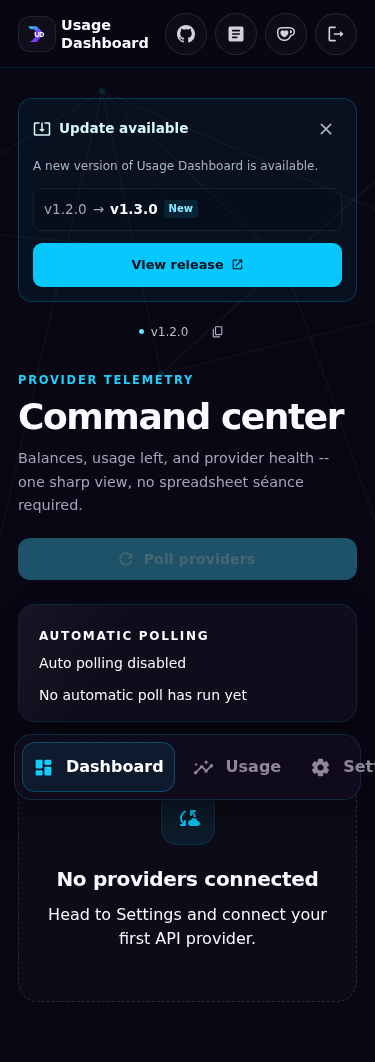
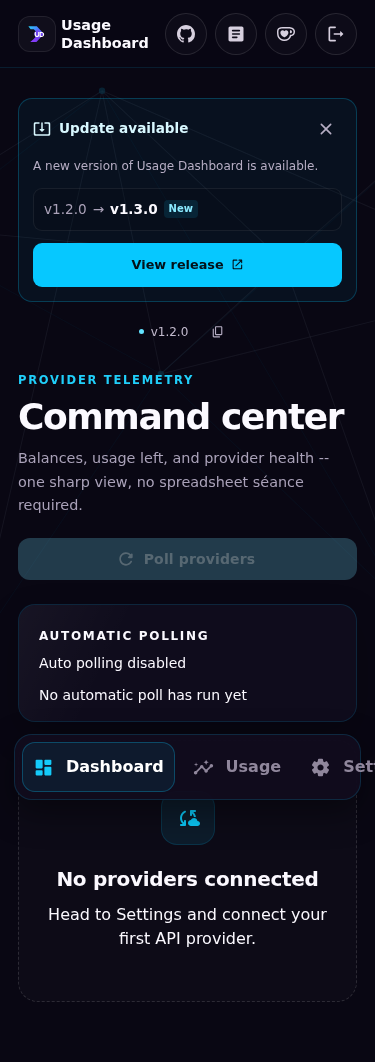
test: strengthen sidebar navigation and accessibility regression coverage
Separate comparison label styling from clipboard announcements and link the container badge to both published images. Refresh final UI captures.

Changed region(s): [[0.0293, 0.4972, 0.968, 0.5593]]

diff --git a/frontend/src/lib/navigation.test.js b/frontend/src/lib/navigation.test.js
@@ -1,9 +1,9 @@
-import { readFileSync } from 'node:fs'
-import { describe, expect, it } from 'vitest'
+// @vitest-environment jsdom
+import { act, createElement } from 'react'
+import { createRoot } from 'react-dom/client'
+import { afterEach, beforeEach, describe, expect, it, vi } from 'vitest'
+import App from '../App.jsx'
 import { usageSubmenuItems, visibleUsageSubmenuItems } from './navigation.js'
-
-const appSource = readFileSync(new URL('../App.jsx', import.meta.url), 'utf8')
-const styles = readFileSync(new URL('../styles.css', import.meta.url), 'utf8')
 
 describe('usage submenu', () => {
   it('shows only always-present sections on the all-providers view', () => {
@@ -24,27 +24,89 @@ describe('usage submenu', () => {
   })
 })
 
-describe('primary sidebar presentation and routes', () => {
-  it('shows the full product name and retains primary and settings navigation', () => {
-    expect(appSource).toContain('<strong>Usage Dashboard</strong>')
-    expect(appSource).toContain('<span>Command Center</span>')
-    expect(appSource).toContain('{ to: "/", label: "Dashboard"')
-    expect(appSource).toContain('{ to: "/usage", label: "Usage"')
-    expect(appSource).toContain('{ to: "/settings", label: "Settings"')
-    expect(appSource).toContain('showSettingsSubmenu &&')
-    expect(appSource).toContain('settingsSubmenuItems.map((subitem) => (')
-    expect(appSource).toContain('href={subitem.href}')
+describe('rendered primary navigation', () => {
+  let root, container
+  const sidebar = () => container.querySelector('.sidebar nav')
+  const submenuLinks = () => [...sidebar().querySelectorAll('.nav-submenu a')]
+  const labels = () => submenuLinks().map((link) => link.textContent)
+
+  beforeEach(() => {
+    globalThis.IS_REACT_ACT_ENVIRONMENT = true
+    localStorage.clear()
+    localStorage.setItem('usage_dashboard_admin_session_token', 'navigation-test-session')
+    // Stub only the HTTP boundary; render the real shell, router and pages.
+    const provider = { config_id: 1, provider: 'codex', label: 'Navigation fixture' }
+    vi.stubGlobal('fetch', vi.fn(async (url) => {
+      const path = new URL(url, window.location.origin).pathname
+      const payload = path.endsWith('/auth/status') ? { setup_required: false }
+        : path.endsWith('/usage') ? [{ config: { id: 1, provider: 'codex' } }]
+        : path.endsWith('/analytics/overview') ? { providers: [provider] }
+        : path.includes('/analytics/') ? {} : []
+      return new Response(JSON.stringify(payload), { headers: { 'Content-Type': 'application/json' } })
+    }))
+    container = document.createElement('div')
+    document.body.append(container)
+    root = createRoot(container)
   })
 
-  it('keeps a scrollable desktop sidebar with focus-visible navigation states', () => {
-    expect(styles).toMatch(/\.sidebar\s*\{[^}]*overflow-y:\s*auto/s)
-    expect(styles).toMatch(/\.side-navigation\s*\{[^}]*flex-direction:\s*column/s)
-    expect(styles).toMatch(/\.sidebar-lower-section\s*\{[^}]*margin-top:\s*auto/s)
-    expect(styles).toContain('.nav-link:focus-visible')
-    expect(styles).toContain('.nav-submenu-link:focus-visible')
-    expect(styles).toMatch(/@media \(prefers-reduced-motion:\s*reduce\)/)
-    const tabletRules = styles.match(/@media \(max-width:\s*900px\)\s*\{([\s\S]*?)\n\}/)
-    expect(tabletRules?.[1]).toContain('.sidebar {')
-    expect(tabletRules?.[1]).toContain('display: none')
+  afterEach(async () => {
+    await act(async () => root.unmount())
+    container.remove()
+    localStorage.clear()
+    window.history.replaceState({}, '', '/')
+    vi.unstubAllGlobals()
+  })
+
+  async function render(path) {
+    window.history.replaceState({}, '', path)
+    await act(async () => root.render(createElement(App)))
+  }
+
+  async function click(link) {
+    await act(async () => {
+      link.click()
+      await new Promise((resolve) => setTimeout(resolve, 0))
+    })
+  }
+
+  it.each(['/usage', '/usage?provider=all', '/usage?provider=1'])(
+    'renders the appropriate Usage anchors at %s', async (path) => {
+      await render(path)
+      const expected = visibleUsageSubmenuItems(path.endsWith('=1'))
+      expect(labels()).toEqual(expected.map((item) => item.label))
+      expect(submenuLinks().map((link) => link.getAttribute('href'))).toEqual(expected.map((item) => item.href))
+      expect(sidebar().querySelector('a[aria-current="page"]').textContent).toBe('Usage')
+      const overview = submenuLinks().find((link) => link.textContent === 'Overview')
+      overview.focus()
+      expect(document.activeElement).toBe(overview)
+      await click(overview)
+      expect(window.location.hash).toBe('#usage-overview')
+      expect(sidebar().querySelector('.nav-submenu-link.active').textContent).toBe('Overview')
+    },
+  )
+
+  it('navigates between primary routes and retains Settings section anchors', async () => {
+    await render('/usage')
+    expect(sidebar().querySelector('.brand-lockup').textContent).toBe('Usage DashboardCommand Center')
+    const primary = [...sidebar().querySelectorAll('.nav-link')]
+    expect(primary.map((link) => [link.textContent, link.getAttribute('href')])).toEqual([
+      ['Dashboard', '/'], ['Usage', '/usage'], ['Settings', '/settings'],
+    ])
+    await click(primary.find((link) => link.textContent === 'Settings'))
+    expect(window.location.pathname).toBe('/settings')
+    expect(sidebar().querySelector('a[aria-current="page"]').textContent).toBe('Settings')
+    expect(labels()).toEqual(['Provider settings', 'Data sources', 'Integrations', 'Integration tokens'])
+    for (const link of submenuLinks()) {
+      await click(link)
+      expect(window.location.hash).toBe(link.getAttribute('href'))
+      expect(document.getElementById(link.hash.slice(1))).not.toBeNull()
+    }
+    const mobile = container.querySelector('.mobile-navigation')
+    expect([...mobile.querySelectorAll('.nav-link')].map((link) => link.textContent)).toEqual(['Dashboard', 'Usage', 'Settings'])
+    expect(mobile.querySelector('.nav-submenu')).toBeNull()
+    await click(mobile.querySelector('a[href="/"]'))
+    expect(window.location.pathname).toBe('/')
+    expect(sidebar().querySelector('a[aria-current="page"]').textContent).toBe('Dashboard')
+    expect(submenuLinks()).toHaveLength(0)
   })
 })

diff --git a/frontend/src/components/UpdateNotification.test.js b/frontend/src/components/UpdateNotification.test.js
@@ -56,6 +56,13 @@ describe('UpdateNotification', () => {
     expect(comparison.querySelector('.update-version-latest').textContent).toBe('v1.3.0')
     expect(comparison.querySelector('[aria-hidden="true"]').textContent).toBe('→')
     expect(comparison.querySelector('.update-new-badge').textContent).toBe('New')
+    const comparisonLabel = comparison.querySelector('.update-version-comparison-label')
+    expect(comparisonLabel.textContent).toBe('to')
+    expect(comparisonLabel.hasAttribute('aria-hidden')).toBe(false)
+    expect(comparisonLabel.closest('[role="status"]')).toBeNull()
+    const copyStatus = container.querySelector('[role="status"]')
+    expect(copyStatus.className).toBe('version-copy-status')
+    expect(copyStatus.textContent).toBe('')
     const link = container.querySelector('a')
     expect(link.textContent).toContain('View release')
     expect(link.querySelector('svg').getAttribute('aria-hidden')).toBe('true')

diff --git a/frontend/src/components/UpdateNotification.jsx b/frontend/src/components/UpdateNotification.jsx
@@ -111,7 +111,7 @@ export default function UpdateNotification({ update, compact = false }) {
               <>
                 <span className="update-version-installed">{backend.label}</span>
                 <span aria-hidden="true">→</span>
-                <span className="version-copy-status">to</span>
+                <span className="update-version-comparison-label">to</span>
               </>
             )}
             <span className="update-version-latest">{latest.label}</span>

diff --git a/frontend/src/styles.css b/frontend/src/styles.css
@@ -1695,6 +1695,7 @@ input[type="datetime-local"]::-webkit-calendar-picker-indicator {
   overflow-wrap: anywhere;
 }
 .version-diagnostic-warning { color: #efc581; }
+.update-version-comparison-label,
 .version-copy-status {
   position: absolute;
   width: 1px;

diff --git a/README.md b/README.md
@@ -4,7 +4,7 @@
 
 [![GitHub Release](https://img.shields.io/github/v/release/Skulldorom/usage-dashboard)](https://github.com/Skulldorom/usage-dashboard/releases)
 [![CI Status](https://github.com/Skulldorom/usage-dashboard/actions/workflows/docker-images.yml/badge.svg?branch=main)](https://github.com/Skulldorom/usage-dashboard/actions/workflows/docker-images.yml?query=branch%3Amain)
-[![Docker / GHCR](https://img.shields.io/badge/Docker-GHCR-2496ED?logo=docker&logoColor=white)](https://github.com/Skulldorom/usage-dashboard/pkgs/container/usage-dashboard-backend)
+[![Docker / GHCR](https://img.shields.io/badge/Docker-GHCR-2496ED?logo=docker&logoColor=white)](https://github.com/Skulldorom?tab=packages&repo_name=usage-dashboard)
 [![License: MPL-2.0](https://img.shields.io/badge/License-MPL--2.0-blue.svg)](LICENSE)
 
 Self-hosted provider usage dashboard for Firecrawl, DeepSeek, OpenAI, Anthropic/Claude, OpenRouter, OpenAI Codex, OpenCode Go, MiniMax Token Plan, and custom HTTP endpoints. It tracks current quota and health, retains history, analyzes cost and value, attributes Hermes-observed workload by provider/model/profile, stores provider credentials encrypted at rest, and exposes integrations for Homepage Dashboard and the browser extension.
